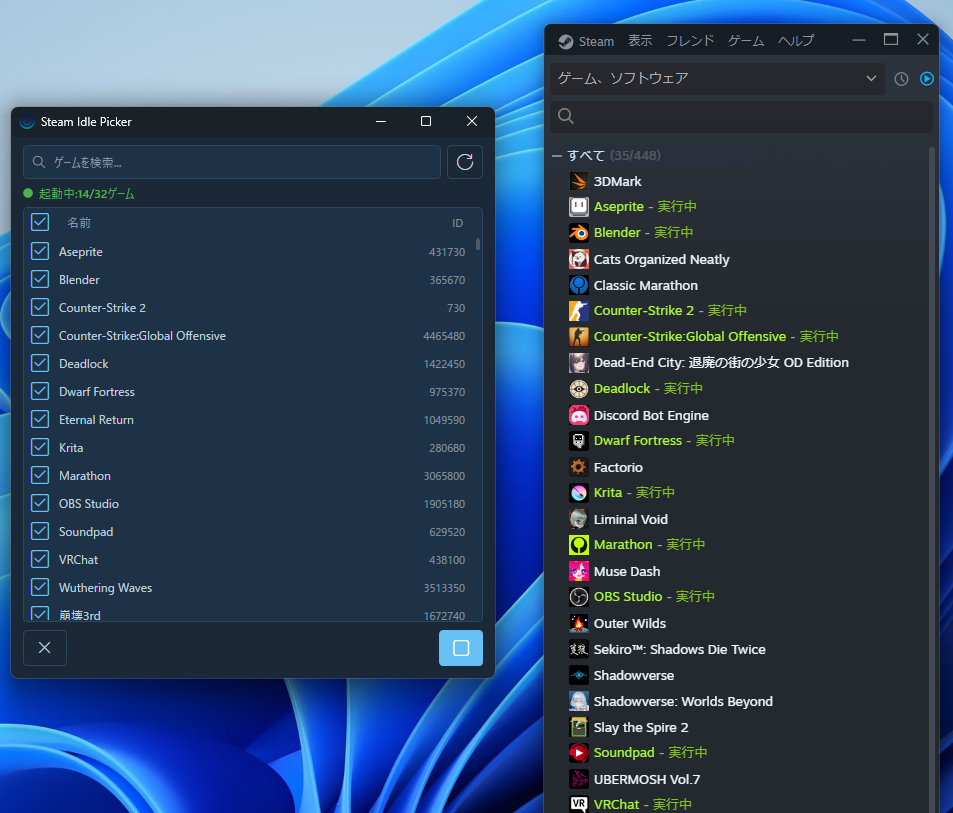
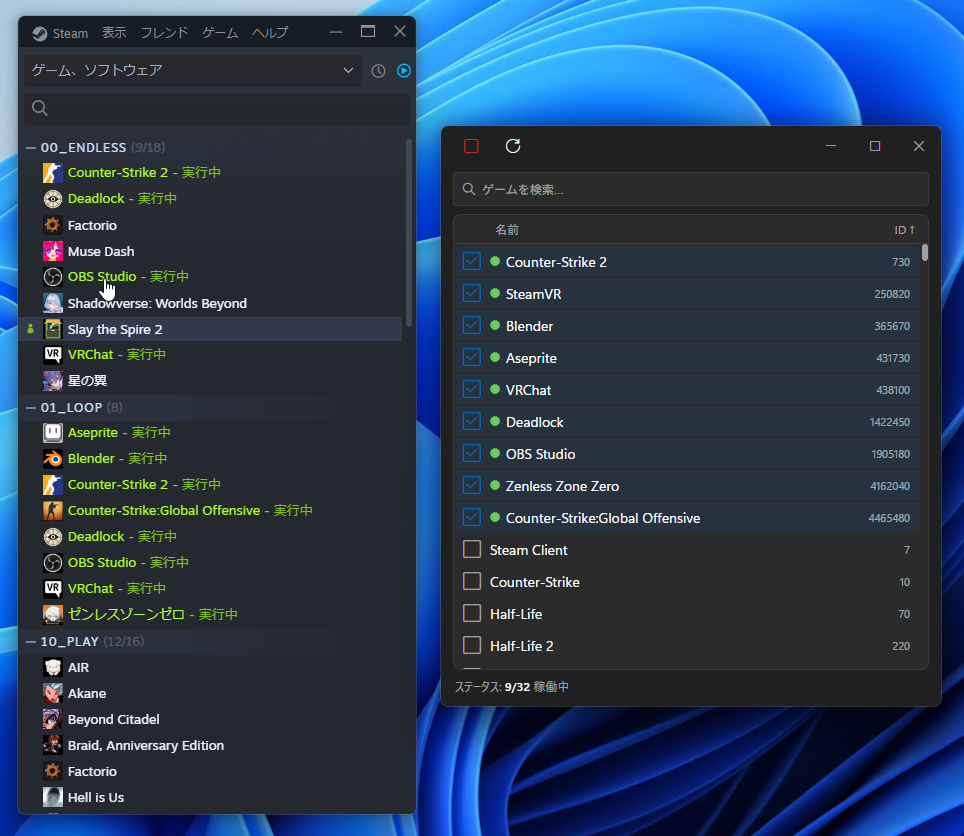
Steam Idle Picker のダウンロードリンクとスクリーンショットを更新

diff --git a/src/content/blog/2026-06-09-steam-idle-picker/index.md b/src/content/blog/2026-06-09-steam-idle-picker/index.md
@@ -24,7 +24,7 @@ pubDate: '2026-06-09'
 - Steam がインストール済みで、起動していること
 - Microsoft Edge WebView2 ランタイム（Windows 11 には標準で入っています）
 
-[ダウンロード (v2.1.0)](https://github.com/4sou9/Steam_Idle_Picker/releases/download/v2.1.0/Steam.Idle.Picker_2.1.0_x64-setup.exe "btn")
+[ダウンロード (v2.1.1)](https://github.com/4sou9/Steam_Idle_Picker/releases/download/v2.1.1/Steam.Idle.Picker_2.1.1_x64-setup.exe "btn")
 
 ソースコードはこちら。
 
